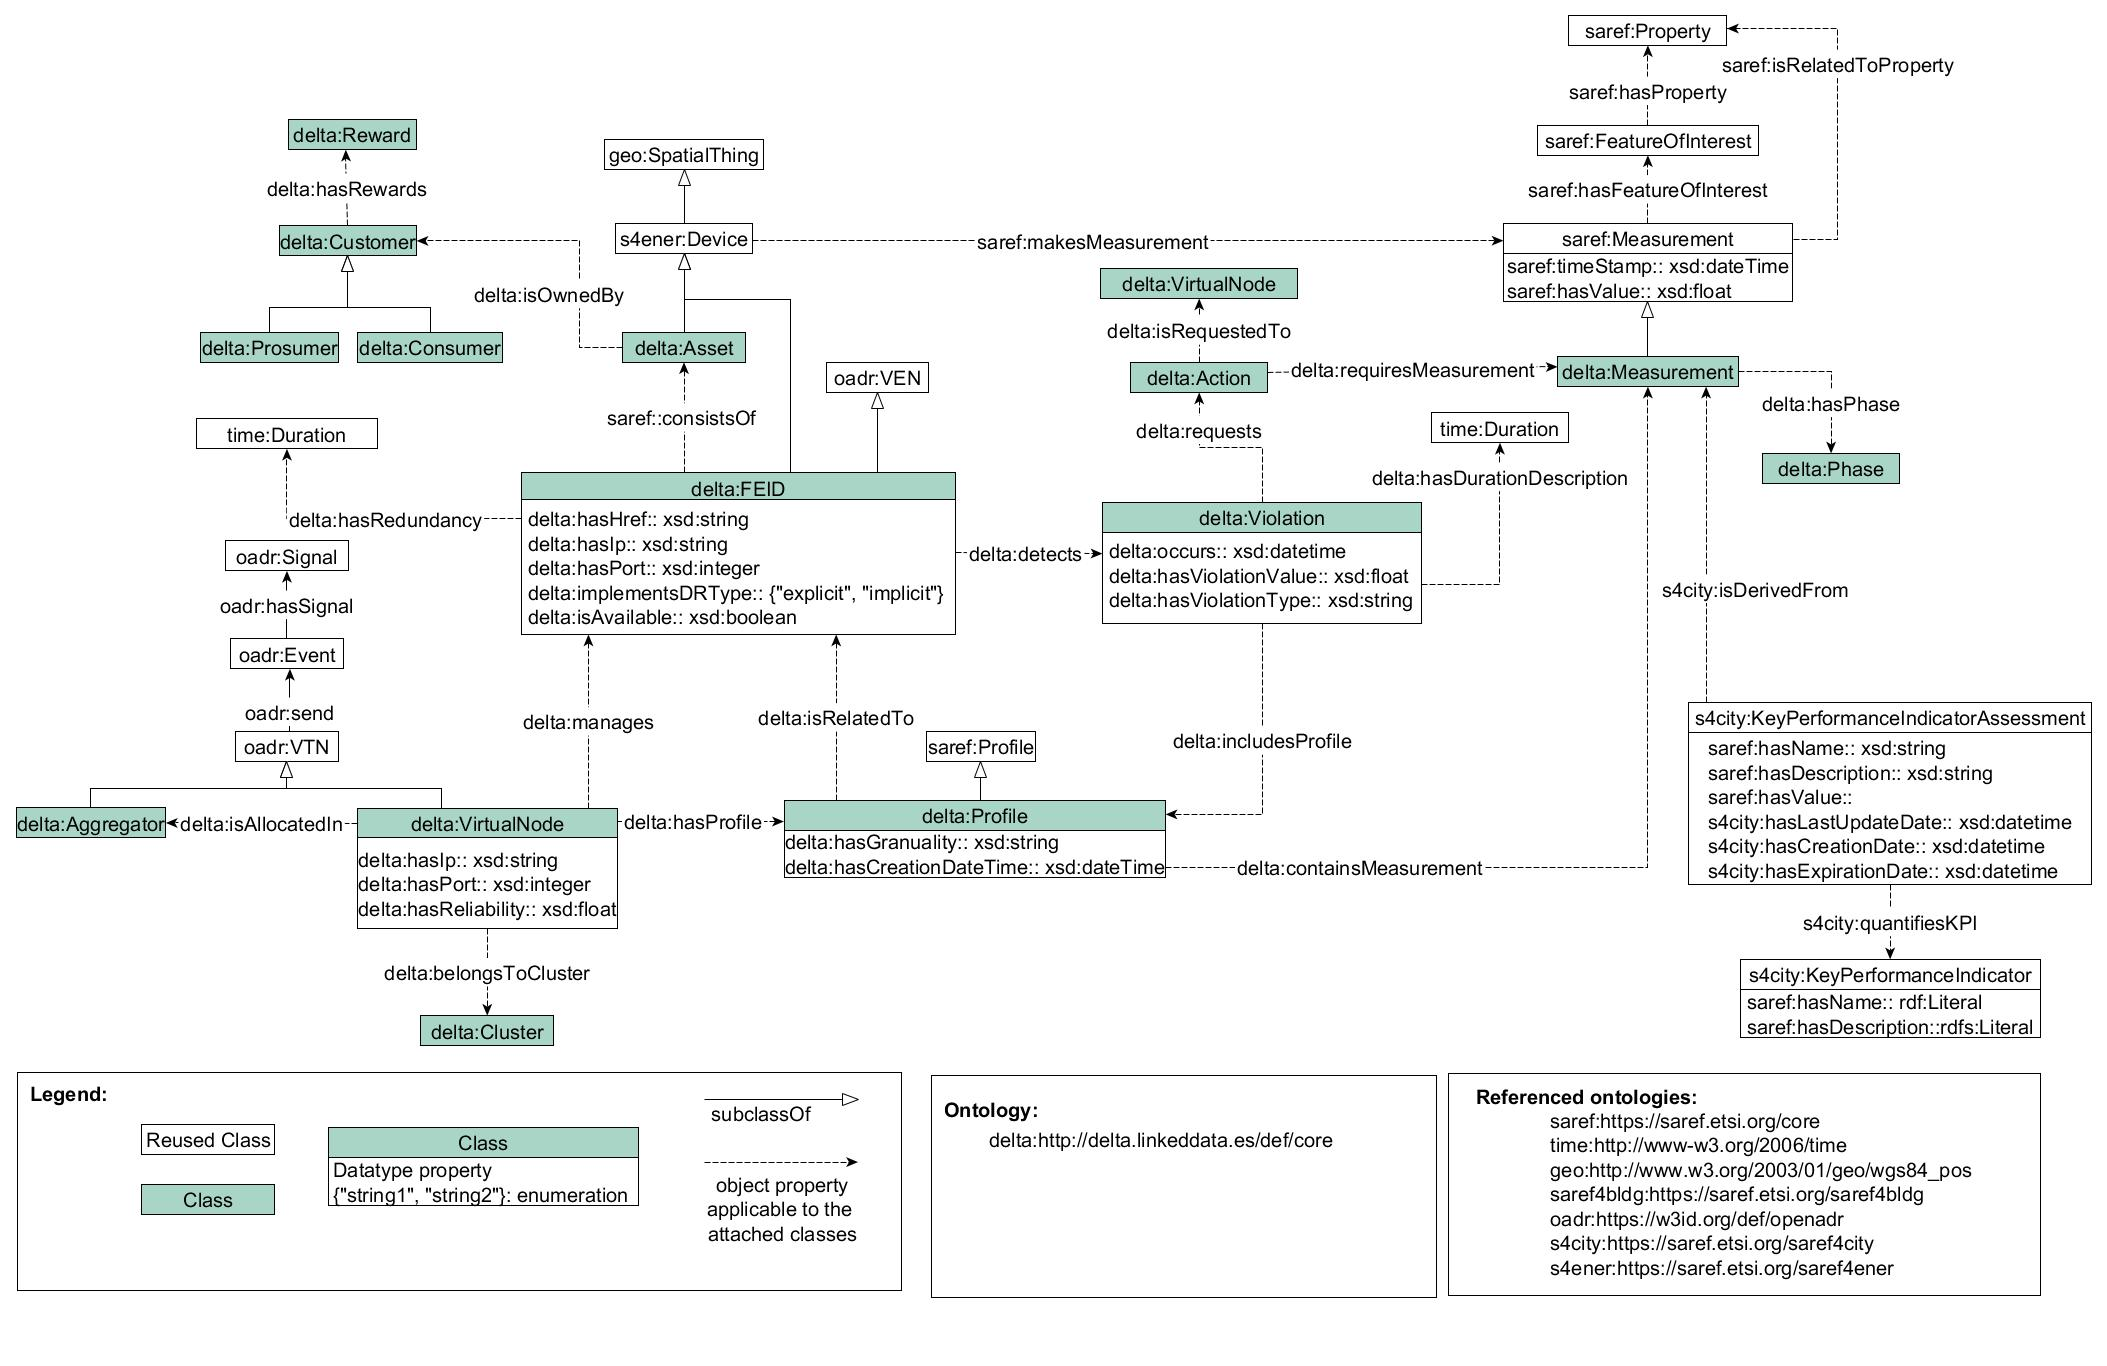
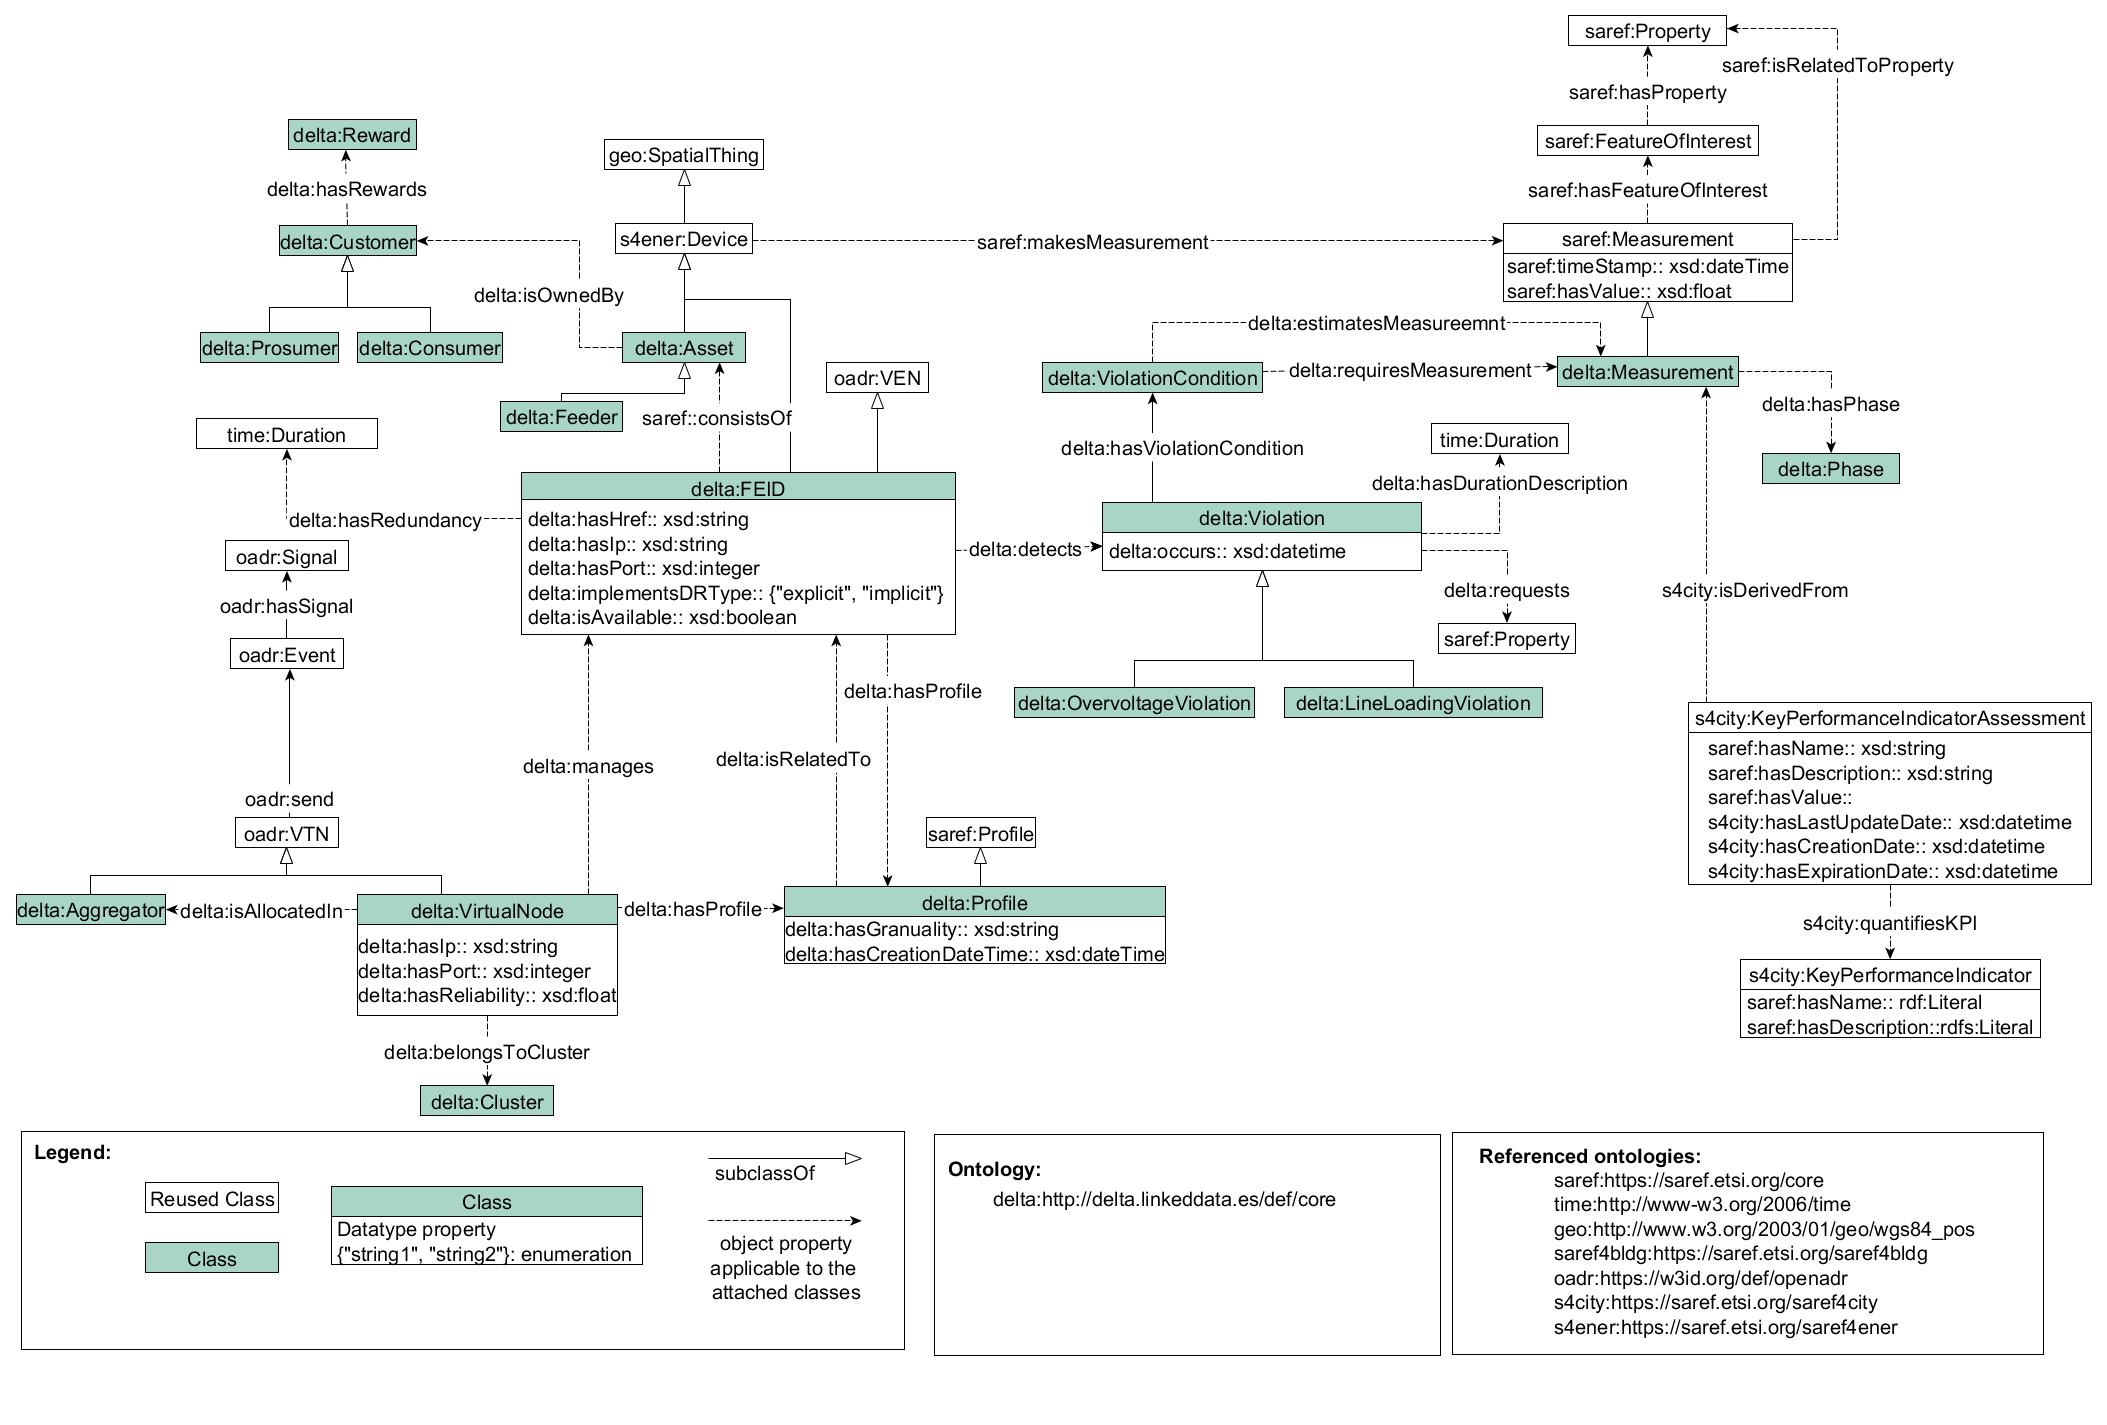
add violation condition context

diff --git a/OnToology/ontology/delta.ttl/documentation/sections/crossref-en.html b/OnToology/ontology/delta.ttl/documentation/sections/crossref-en.html
@@ -846,8 +846,8 @@ This section provides details for each class and property defined by DELTA ontol
          </dd>
          <dt>is in range of</dt>
          <dd>
-            <a href="#hasDurationCode"
-               title="http://delta.linkeddata.es/def/core#hasDurationCode">has duration code</a>
+            <a href="#hasDurationDescription"
+               title="http://delta.linkeddata.es/def/core#hasDurationCode">has duration description</a>
             <sup class="type-op" title="object property">op</sup>, <a href="#isValidDuringPeriod"
                title="http://delta.linkeddata.es/def/core#isValidDuringPeriod">is valid during period</a>
             <sup class="type-op" title="object property">op</sup>
@@ -987,8 +987,8 @@ This section provides details for each class and property defined by DELTA ontol
          <a href="#https://w3id.org/def/openadr#hasDuration" title="https://w3id.org/def/openadr#hasDuration">has duration</a>
       </li>
       <li>
-         <a href="#hasDurationCode"
-            title="http://delta.linkeddata.es/def/core#hasDurationCode">has duration code</a>
+         <a href="#hasDurationDescription"
+            title="http://delta.linkeddata.es/def/core#hasDurationCode">has duration description</a>
       </li>
       <li>
          <a href="#hasIncentive" title="http://delta.linkeddata.es/def/core#hasIncentive">has incentive</a>
@@ -1232,21 +1232,21 @@ This section provides details for each class and property defined by DELTA ontol
          <span class="markdown">Relationship between an event and its duration</span>
       </div>
    </div>
-   <div class="entity" id="hasDurationCode">
-      <h3>has duration code<sup class="type-op" title="object property">op</sup>
+   <div class="entity" id="hasDurationDescription">
+      <h3>has duration description<sup class="type-op" title="object property">op</sup>
          <span class="backlink"> back to <a href="#toc">ToC</a> or <a href="#objectproperties">Object Property ToC</a>
          </span>
       </h3>
       <p>
-         <strong>IRI:</strong> http://delta.linkeddata.es/def/core#hasDurationCode</p>
+         <strong>IRI:</strong> http://delta.linkeddata.es/def/core#hasDurationDescription</p>
       <div class="comment">
-         <span class="markdown">Duration code of an event</span>
+         <span class="markdown">Duration description of a violation, indicanting value and unit</span>
       </div>
       <div class="description">
          <dl>
             <dt>has range</dt>
             <dd>
-               <a href="#http://www.w3.org/2006/time#TemporalEntity" title="http://www.w3.org/2006/time#TemporalEntity">Temporal entity</a>
+               <a href="#http://www.w3.org/2006/time#Duration" title="http://www.w3.org/2006/time#Duration">Duration</a>
                <sup class="type-c" title="class">c</sup>
             </dd>
          </dl>

diff --git a/OnToology/ontology/delta.ttl/documentation/sections/overview-en.html b/OnToology/ontology/delta.ttl/documentation/sections/overview-en.html
@@ -178,8 +178,8 @@ This ontology has the following classes and properties.</span>
       <a href="#https://w3id.org/def/openadr#hasDuration" title="https://w3id.org/def/openadr#hasDuration">has duration</a>
    </li>
    <li>
-      <a href="#hasDurationCode"
-         title="http://delta.linkeddata.es/def/core#hasDurationCode">has duration code</a>
+      <a href="#hasDurationDescription"
+         title="http://delta.linkeddata.es/def/core#hasDurationDescription">has duration description</a>
    </li>
    <li>
       <a href="#hasIncentive" title="http://delta.linkeddata.es/def/core#hasIncentive">has incentive</a>
